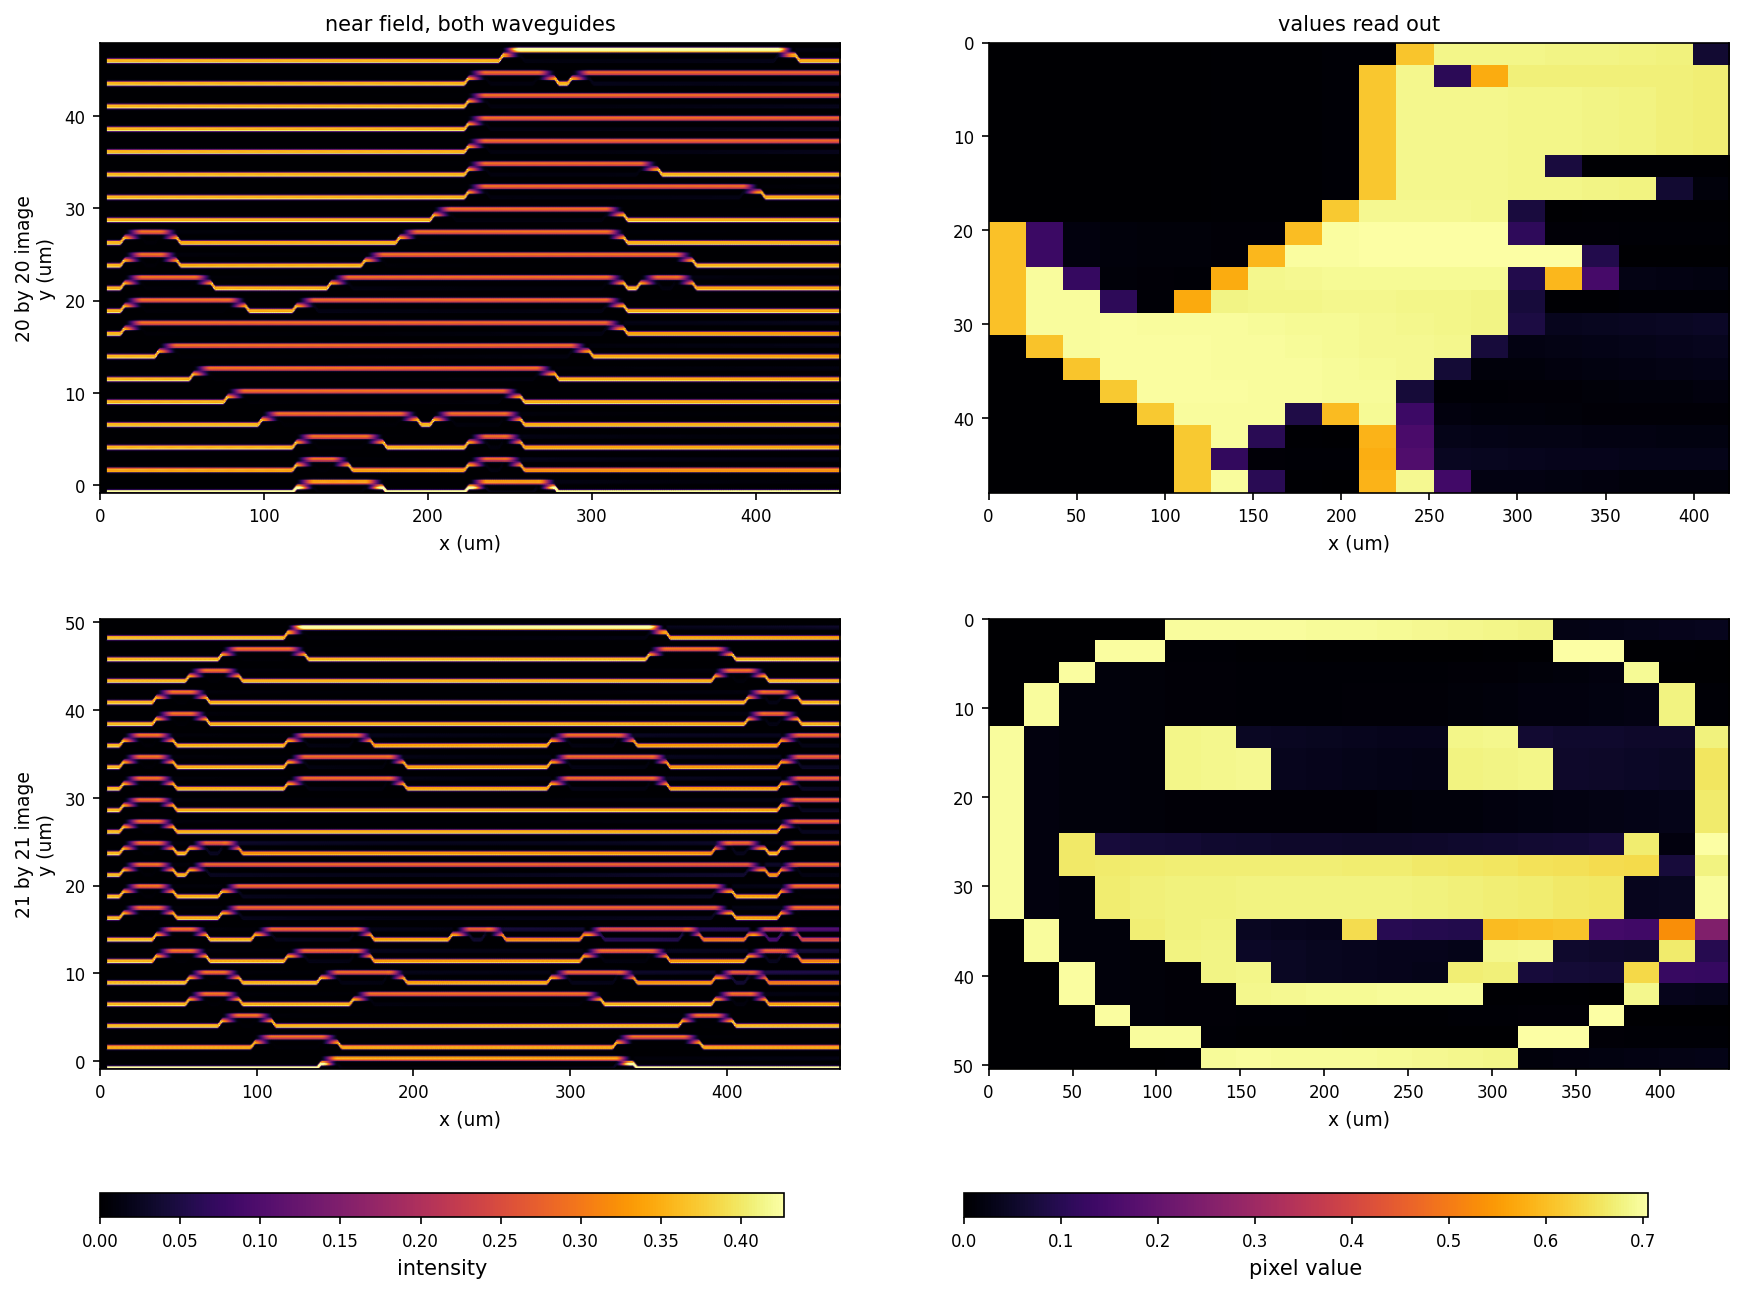
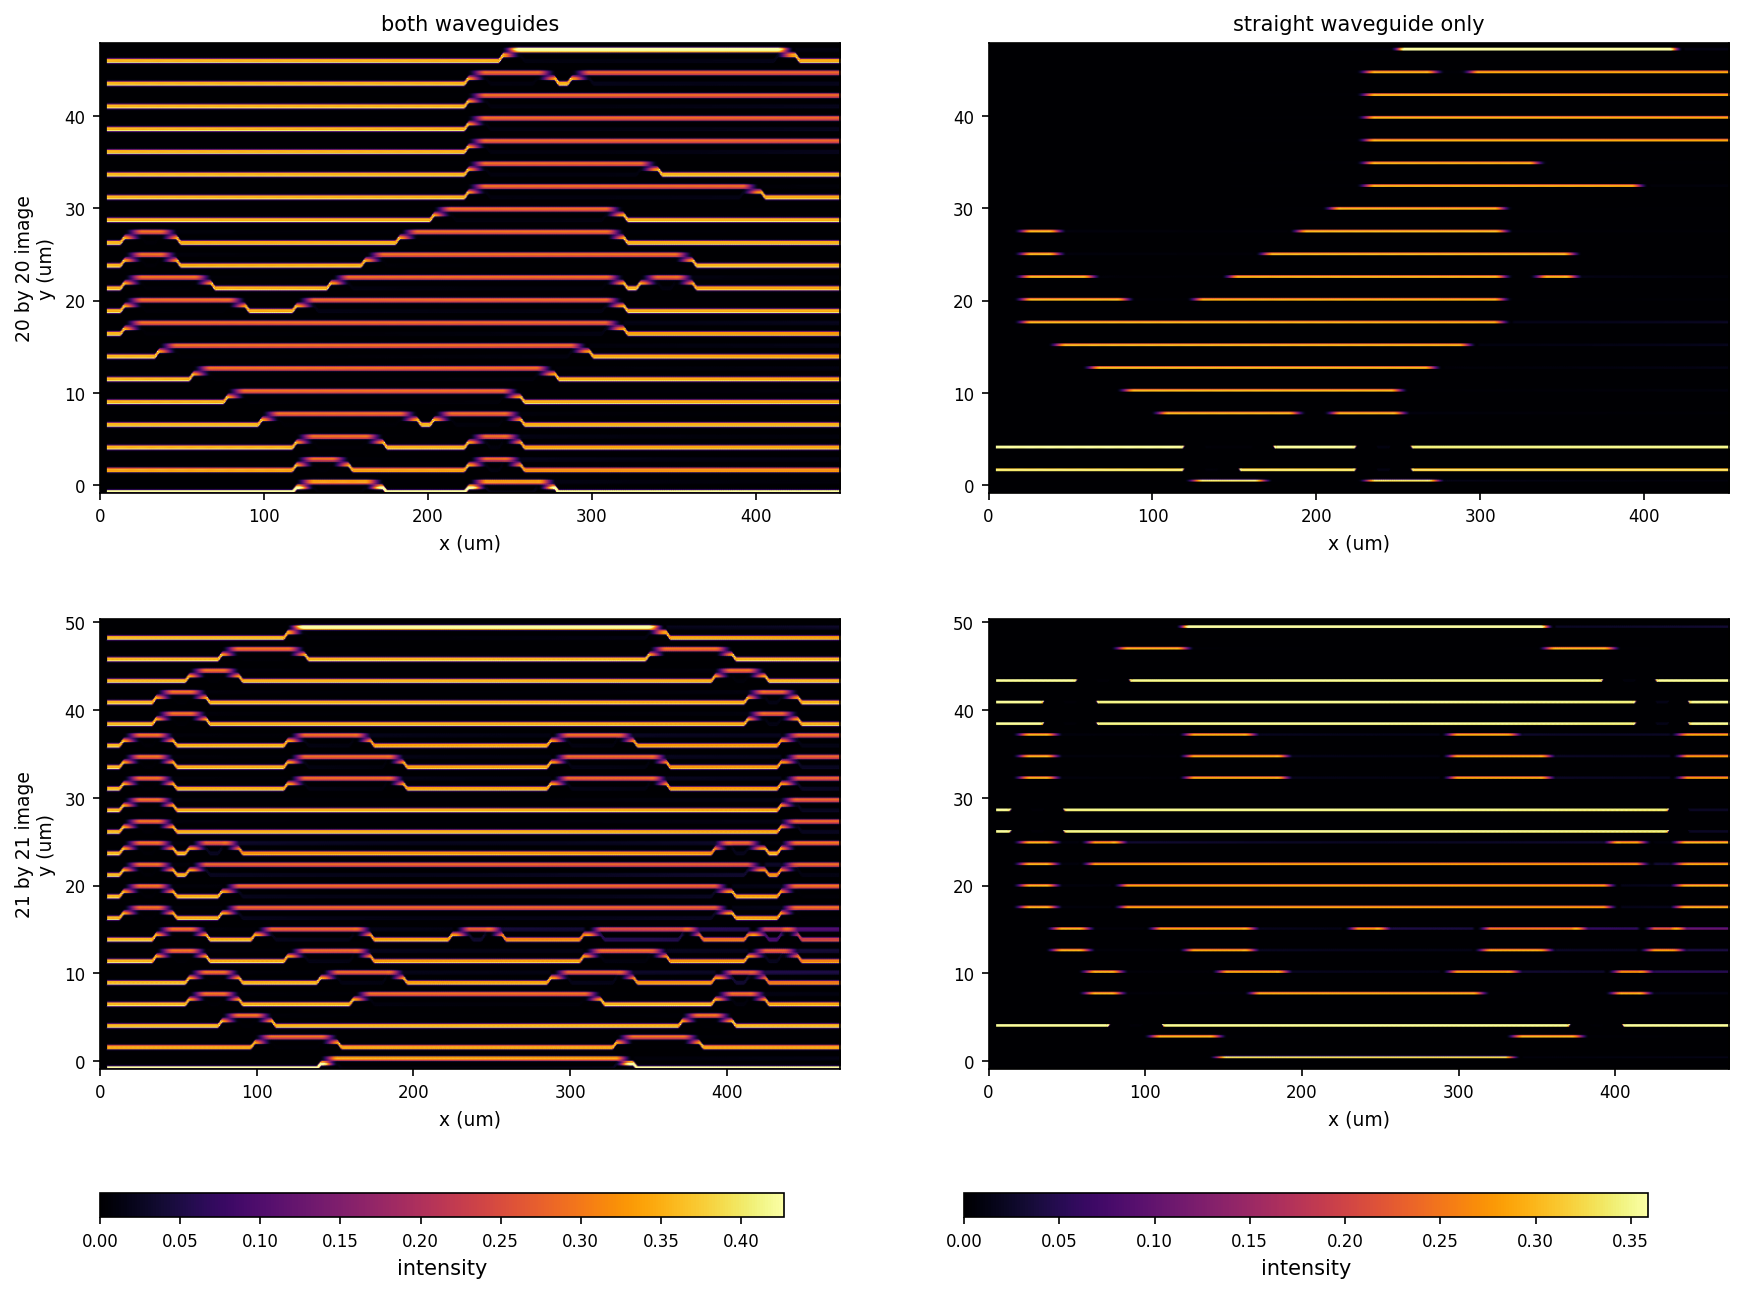
Fig 2 keeps the single-waveguide field; fig 3 is the two-state pixel comparison

diff --git a/make_figure.py b/make_figure.py
@@ -1,15 +1,14 @@
-"""make_figure.py -- target against measurement, on one colour scale.
+"""make_figure.py -- one image, two states, side by side.
 
-Left: the image that was encoded. Right: the pixel values that come back out of
-the simulation. Both panels share one colour scale, so a loss of contrast shows
-up as a loss of contrast instead of being normalised away.
+Every panel is a pixel map of the same image, read out of a different simulated
+state. All panels share one colour scale, so a loss of contrast shows up as a
+loss of contrast instead of being normalised away.
 
 Usage
-    python make_figure.py dino --image images/example.txt --out figures/fig3_readout.png
-    python make_figure.py smile_e350 --image images/smile.txt --out figures/fig4_degraded.png
+    python make_figure.py                                  # calibrated, +35 %
+    python make_figure.py smile smile_e350 --out figures/fig3_degraded.png
 
-Numbers such as the count of wrong pixels belong in the caption, not in the
-panel title.
+Counts of wrong pixels belong in the caption, not in the panel title.
 """
 import argparse
 import sys
@@ -33,50 +32,48 @@ def label(prefix):
     """What the run was, in a few words."""
     if "_e" in prefix:
         return "+%g %% coupling length" % (int(prefix.split("_e")[1]) / 10.0)
-    return "measured"
+    return "calibrated"
 
 
 def main(argv=None):
     ap = argparse.ArgumentParser(description=__doc__)
-    ap.add_argument("prefix", nargs="?", default="smile_e350")
-    ap.add_argument("--image", default=None)
-    ap.add_argument("--out", default=None)
+    ap.add_argument("prefix", nargs="*", default=["smile", "smile_e350"])
+    ap.add_argument("--image", default=str(HERE / "images" / "smile.txt"))
+    ap.add_argument("--out", default=str(FIG / "fig3_degraded.png"))
     args = ap.parse_args(argv)
 
-    image = Path(args.image) if args.image else None
-    if image is None:
-        stem = args.prefix.split("_")[0]
-        image = HERE / "images" / (stem + ".txt")
-        if not image.exists():
-            image = HERE / "images" / "example.txt"
+    rows = RI.load_image(args.image)
+    truth = RI.truth_matrix(rows)
 
-    rows = RI.load_image(image)
-    ideal = RI.truth_matrix(rows)
-    values = RI.assemble(DATA / ("readout_%s.npz" % args.prefix), rows)
-    res = RI.report(values, ideal)
+    maps, results = [], []
+    for prefix in args.prefix:
+        values = RI.assemble(DATA / ("readout_%s.npz" % prefix), rows)
+        maps.append(values)
+        results.append(RI.report(values, truth))
+    vmax = max(0.7, max(float(np.nanpercentile(m, 99.5)) for m in maps))
 
-    fig, axes = plt.subplots(1, 2, figsize=(11.0, 5.4))
-    for ax, data, title in ((axes[0], ideal.astype(float), "target"),
-                            (axes[1], values, label(args.prefix))):
-        ax.imshow(data, cmap="inferno", vmin=0.0, vmax=1.0,
+    fig, axes = plt.subplots(1, len(maps), figsize=(5.6 * len(maps), 5.8))
+    axes = np.atleast_1d(axes)
+    for ax, values, prefix, res in zip(axes, maps, args.prefix, results):
+        ax.imshow(values, cmap="inferno", vmin=0.0, vmax=vmax,
                   interpolation="nearest", aspect="equal")
         ax.set_xticks([])
         ax.set_yticks([])
-        ax.set_title(title, fontsize=10)
-        for k in range(1, ideal.shape[1]):
-            ax.axhline(k - 0.5, color="0.25", lw=0.3)
-            ax.axvline(k - 0.5, color="0.25", lw=0.3)
-    fig.colorbar(plt.cm.ScalarMappable(norm=Normalize(0.0, 1.0), cmap="inferno"),
-                 ax=axes.tolist(), fraction=0.028, pad=0.02,
+        ax.set_title(label(prefix), fontsize=10)
+        for k in range(1, truth.shape[1]):
+            ax.axhline(k - 0.5, color="0.35", lw=0.3)
+            ax.axvline(k - 0.5, color="0.35", lw=0.3)
+        print("%-14s %3d of %3d pixels correct, contrast %5.1f"
+              % (prefix, res["correct"], res["pixels"], res["contrast"]))
+
+    fig.colorbar(plt.cm.ScalarMappable(norm=Normalize(0.0, vmax), cmap="inferno"),
+                 ax=axes.tolist(), fraction=0.030, pad=0.02,
                  label="pixel value, shared scale")
 
-    out = Path(args.out) if args.out else FIG / ("fig_%s.png" % args.prefix)
+    out = Path(args.out)
     out.parent.mkdir(parents=True, exist_ok=True)
     plt.savefig(out, dpi=150, bbox_inches="tight")
     print("written: %s" % out)
-    print("  %d of %d pixels correct, dim bright %.3f, bright dark %.3f, contrast %.1f"
-          % (res["correct"], res["pixels"], res["dim_bright"] or 0.0,
-             res["bright_dark"] or 0.0, res["contrast"]))
     return 0
 
 

diff --git a/plot_field_pair.py b/plot_field_pair.py
@@ -36,17 +36,32 @@ def load(name):
     return z["I"], z["x"], z["y"], rows
 
 
-def display_only(field, y_um, n_rows):
-    """Keep the straight waveguide of every row; drop the rest.
+def lanes(field, y_um, n_rows):
+    """Where the display waveguide of each row sits, found from the data.
 
-    Row 0 of the image sits at the top of the field, so the row index runs
-    opposite to the y axis.
+    The assembled field is stitched from per-row runs, so the row grid carries a
+    small offset. Rather than assume where a row is, take the highest peak of the
+    mean profile inside that row's neighbourhood: the straight waveguide is
+    always the upper member of the pair.
     """
+    profile = field.mean(axis=0)
+    found = []
+    for i in range(n_rows):
+        guess = (n_rows - 1 - i) * PITCH
+        band = (y_um >= guess - 1.8) & (y_um <= guess + 1.2)
+        yy, ss = y_um[band], profile[band]
+        peaks = [j for j in range(1, len(ss) - 1)
+                 if ss[j] >= ss[j - 1] and ss[j] >= ss[j + 1] and ss[j] > 0.05]
+        found.append(float(yy[max(peaks)]) if peaks else guess + 0.45)
+    return found
+
+
+def display_only(field, y_um, centres):
+    """Keep the straight waveguide of every row; drop the rest."""
     out = np.array(field, copy=True)
     keep = np.zeros(len(y_um), dtype=bool)
-    for i in range(n_rows):
-        centre = (n_rows - 1 - i) * PITCH
-        keep |= (y_um >= centre + 0.05) & (y_um <= centre + 0.45)
+    for centre in centres:
+        keep |= (y_um >= centre - 0.15) & (y_um <= centre + 0.15)
     out[:, ~keep] = 0.0
     return out
 
@@ -65,21 +80,21 @@ def main():
 
     for row, (name, (field, x, y, rows)) in enumerate(zip(IMAGES, loaded)):
         x_um, y_um = x * 1e6, y * 1e6
+        single = display_only(field, y_um, lanes(field, y_um, len(rows)))
 
         ax = axes[row][0]
         im0 = ax.imshow(field.T, origin="lower", cmap="inferno", vmin=0.0,
                         vmax=float(np.percentile(field, 99.5)),
                         interpolation="bilinear", aspect="auto",
                         extent=[x_um[0], x_um[-1], y_um[0], len(rows) * PITCH])
-        ax.set_title("near field, both waveguides" if row == 0 else "", fontsize=10)
+        ax.set_title("both waveguides" if row == 0 else "", fontsize=10)
 
         ax = axes[row][1]
-        values = readout(name, rows)
-        im1 = ax.imshow(values, origin="upper", cmap="inferno", vmin=0.0,
-                        vmax=float(np.nanpercentile(values, 99.5)),
-                        interpolation="nearest", aspect="auto",
-                        extent=[0, len(rows[0]) * CELL, len(rows) * PITCH, 0])
-        ax.set_title("values read out" if row == 0 else "", fontsize=10)
+        im1 = ax.imshow(single.T, origin="lower", cmap="inferno", vmin=0.0,
+                        vmax=float(np.percentile(single, 99.5)),
+                        interpolation="bilinear", aspect="auto",
+                        extent=[x_um[0], x_um[-1], y_um[0], len(rows) * PITCH])
+        ax.set_title("straight waveguide only" if row == 0 else "", fontsize=10)
 
         for ax in (axes[row][0], axes[row][1]):
             ax.set_xlabel("x (um)", fontsize=9)
@@ -91,7 +106,7 @@ def main():
     fig.colorbar(im0, cax=bar0, orientation="horizontal", label="intensity")
     bar0.tick_params(labelsize=8)
     bar1 = fig.add_axes([0.56, 0.06, 0.38, 0.018])
-    fig.colorbar(im1, cax=bar1, orientation="horizontal", label="pixel value")
+    fig.colorbar(im1, cax=bar1, orientation="horizontal", label="intensity")
     bar1.tick_params(labelsize=8)
 
     out = FIG / "fig2_field.png"

diff --git a/README.md b/README.md
@@ -8,9 +8,11 @@ guided light. The image is read by looking at the near field above the chip.
 ![Two images and what comes out of them](figures/fig2_field.png)
 
 *Top row: a 20 by 20 image. Bottom row: a 21 by 21 image. Left: the simulated
-near field, both waveguides. Right: the value read out of each pixel. Each
-column has its own colour bar, in units of the input power; both images read out
-with every pixel correct.*
+near field, both waveguides. Right: the same field with everything but the
+straight waveguide masked out. Each column has its own colour bar, in units of
+the input power. The image is already there in the left column; masking the
+moving waveguide makes it easier to look at, and is a reading option, not a
+requirement.*
 
 ## What it is
 
@@ -56,17 +58,17 @@ bright pixel is 0.568 and the brightest dark pixel is 0.166, both in units of
 the input power. One row leaks into its neighbour by 21.9 dB, and into rows
 three or more away by 28.2 dB.
 
-![Target and measured pixel values](figures/fig3_readout.png)
+![The same image, calibrated and 35 % off](figures/fig3_degraded.png)
 
-*Left: the image that was encoded. Right: the pixel values that come back out of
-the simulation, for the same 20 by 20 pixels. The two panels share one colour
-scale, so the count of correct pixels can be checked by eye without the contrast
-being normalised away. The measured values sit below 1.0 because a bright pixel
-in the target is drawn as 1.0 while a measured bright pixel is 0.6 to 0.7 of the
-input power.*
+*Both panels are pixel maps of the same 21 by 21 image, on one colour scale.
+Left: the coupling section at its calibrated length, 441 of 441 pixels correct,
+contrast 80.8 times. Right: the same device with the coupling section 35 % too
+long, 283 of 441 pixels correct, contrast 2.7 times. The 35 % run is a reference
+for what failure looks like; it is not a specification.*
 
-The full near field of both images is `figures/fig2_field.png`; the layout is
-`figures/fig1_layout.png`.
+The pixel maps are used here, and only here, because these two states have to be
+compared on one scale. The near field of figure 2 already shows the image without
+any such processing.
 
 The design rule we state, and do not claim to have validated: the critical
 dimension may be off by about 23.3 divided by the number of exchanges in the row,
@@ -99,10 +101,10 @@ An image is a text file, one line per row, `#` for a bright pixel and `.` for a
 dark one. `images/example.txt` is the 20 by 20 image used throughout;
 `images/smile.txt` is the 21 by 21 one.
 
-Figures 3 and 4 are drawn from the shipped data by:
+Figures 2 and 3 are drawn from the shipped data by:
 
-    python make_figure.py dino --image images/example.txt --out figures/fig3_readout.png
-    python make_figure.py smile_e350 --image images/smile.txt --out figures/fig4_degraded.png
+    python plot_field_pair.py
+    python make_figure.py smile smile_e350 --out figures/fig3_degraded.png
 
 ## Simulate a row
 
@@ -128,7 +130,7 @@ number. The window and the threshold are in `parameters.json`.
     plot_field_pair.py   two images -> figure 2
     simulate_row.py      polygons -> one row of a wave simulation
     read_image.py        simulated data -> pixel values
-    make_figure.py       target against measurement, figures 3 and 4
+    make_figure.py       the same image in two states, figure 3
     reproduce.py         every quoted number, from data/
     parameters.json      every dimension, in one place
     images/              two images
